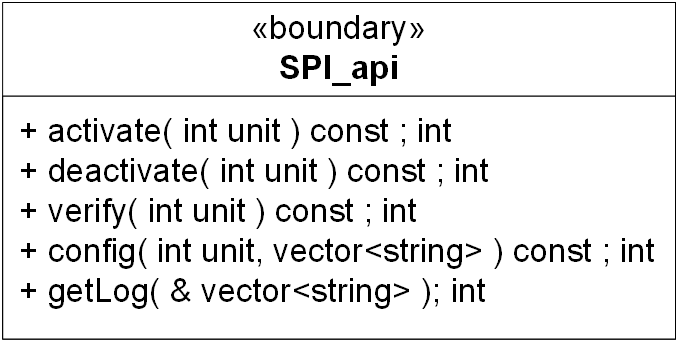
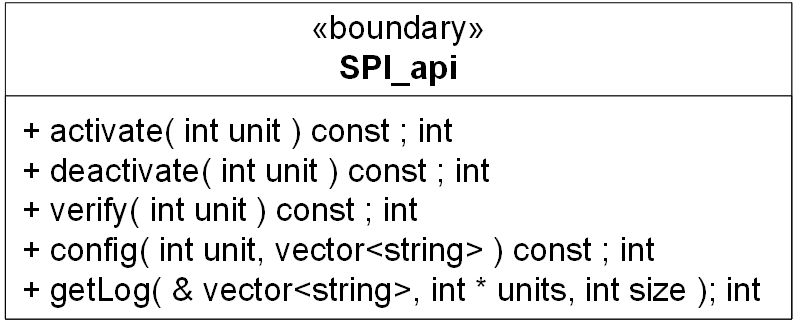
SW SPI API

Changed region(s): [[0.0, 0.0, 1.0, 1.0]]

diff --git a/Projektdokumentation/filer/design/sw_klasseSPI.tex b/Projektdokumentation/filer/design/sw_klasseSPI.tex
@@ -7,39 +7,31 @@
 \end{figure} 
 
 {\centering
-\textbf{SPI\_api klasse}\par
+\textbf{SPI\_api}\par
 }
-\textbf{Ansvar:} At være det lag imellem applications laget og device driver laget. Skal håndtere snakken med device driveren til SPI kommunikation \\
+\textbf{Ansvar:} At være et lag imellem \textit{applications}-laget og \textit{device driver}-laget ifm. SPI kommunikation. \
 
 int activate( int unit ) const \\
-\textbf{Parametre:} modtager en integer på følgende enhed som skal aktiveres \\
-\textbf{Returværdi:} returnere en integer som er 0 hvis operationen gik godt. Ved fejl returneres en negativ integer i overenstemmelse med fejl-listen \\
-\textbf{Beskrivelse:} metoden skal kunne aktivere enheden som er identificeret ved integeren den modtager. Hvis dette går godt returneres 0, ellers returneres en fejlkode i overenstemmelse med fejl-listen.\\
+\textbf{Parametre:} modtager en integer på enhed som skal aktiveres \\
+\textbf{Returværdi:} 0 ved succes ellers negativ i overenstemmelse med fejl-listen \\
+\textbf{Beskrivelse:} metoden skal aktivere enheden \verb+unit+ over SPI netværket.\\
 
 int deactivate( int unit ) const \\
 \textbf{Parametre:}  modtager en integer på følgende enhed som skal deaktiveres\\
-\textbf{Returværdi}: returnere en integer som er 0 hvis operationen gik godt. Ved fejl returneres en negativ integer i overenstemmelse med fejl-listen  \\
-\textbf{Beskrivelse:} metoden skal kunne deaktivere enheden som er identificeret ved integeren den modtager. Hvis dette går godt returneres 0, ellers returneres en fejlkode i overenstemmelse med fejl-listen.\\
+\textbf{Returværdi}: 0 ved succes ellers negativ i overenstemmelse med fejl-listen \\
+\textbf{Beskrivelse:} metoden skal deaktivere enheden \verb+unit+ over SPI netværket.\\
 
 int verify( int unit ) const \\
 \textbf{Parametre:}  modtager en integer på følgende enhed som skal verificerese\\
-\textbf{Returværdi:} returnere en integer som er 0 hvis operationen gik godt. Ved fejl returneres en negativ integer i overenstemmelse med fejl-listen  \\
-\textbf{Beskrivelse:} metoden skal kunne verificere om en enhed, identificeret ved integeren den modtager, er på SPI nettet. Hvis dette går godt returneres 0, ellers returneres en fejlkode i overenstemmelse med fejl-listen.\\
+\textbf{Returværdi:} 0 ved succes ellers negativ i overenstemmelse med fejl-listen   \\
+\textbf{Beskrivelse:} metoden skal verificere om enheden \verb+unit+ er tilkoblet SPI netværket.\\
 
 int config( int unit, vector<string> ) const \\
 \textbf{Parametre:} modtager en integer på følgende enhed som skal konfigureres. Derudover modtager den en vector af typen string som indeholder parametrene enheden skal konfigureres med \\
-\textbf{Returværdi:} returnere en integer som er 0 hvis operationen gik godt. Ved fejl returneres en negativ integer i overenstemmelse med fejl-listen  \\
-\textbf{Beskrivelse:} metoden skal kunne sende konfigurations parametre ud til enheder ved hjælp af device driverne til SPI kommunikationen. Hvis dette går godt returneres 0, ellers returneres en fejlkode i overenstemmelse med fejl-listen.\\
+\textbf{Returværdi:}  0 ved succes ellers negativ i overenstemmelse med fejl-listen   \\
+\textbf{Beskrivelse:} metoden skal sende konfigurations-parametrene i \verb+vector+ til enheden \verb+unit+ over SPI netværket.\\
 
-int getLog( \& vector<string>  ) \\
-\textbf{Parametre:}  modtager en referance til en vector af typen string som loggen skal lægges over i.\\
-\textbf{Returværdi:} returnere en integer som er 0 hvis operationen gik godt. Ved fejl returneres en negativ integer i overenstemmelse med fejl-listen  \\
-\textbf{Beskrivelse:} metoden skal kunne hente log fra alle enheder på SPI netværket og gemme dem i den modtaget vector. \\
-
-
-
-
-
-
-
-
+int getLog( \& vector<string> , int * units, int size ) \\
+\textbf{Parametre:}  modtager en referance til en vector af typen string som loggen skal gemmes i. Pointer til array af enheder som skal logges samt int med antallet af enheder i arrayet. \\
+\textbf{Returværdi:}  0 ved succes ellers negativ i overenstemmelse med fejl-listen   \\
+\textbf{Beskrivelse:} metoden skal hente log fra enheder i arrayet \verb+units+ på SPI netværket og gemme dem i \verb+vector+ i henhold til dataprotokollen. \\
